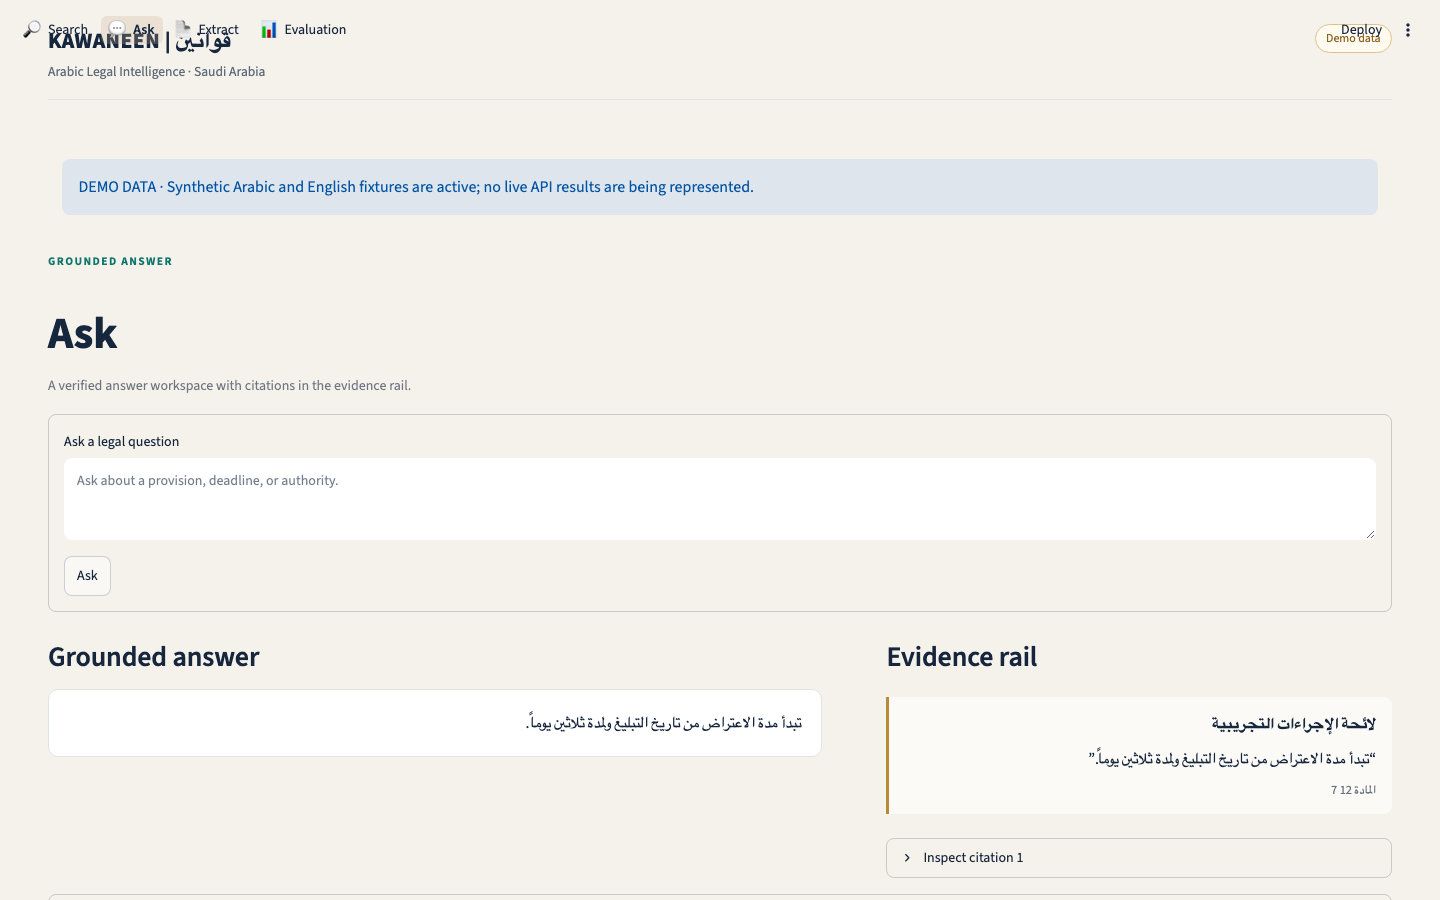
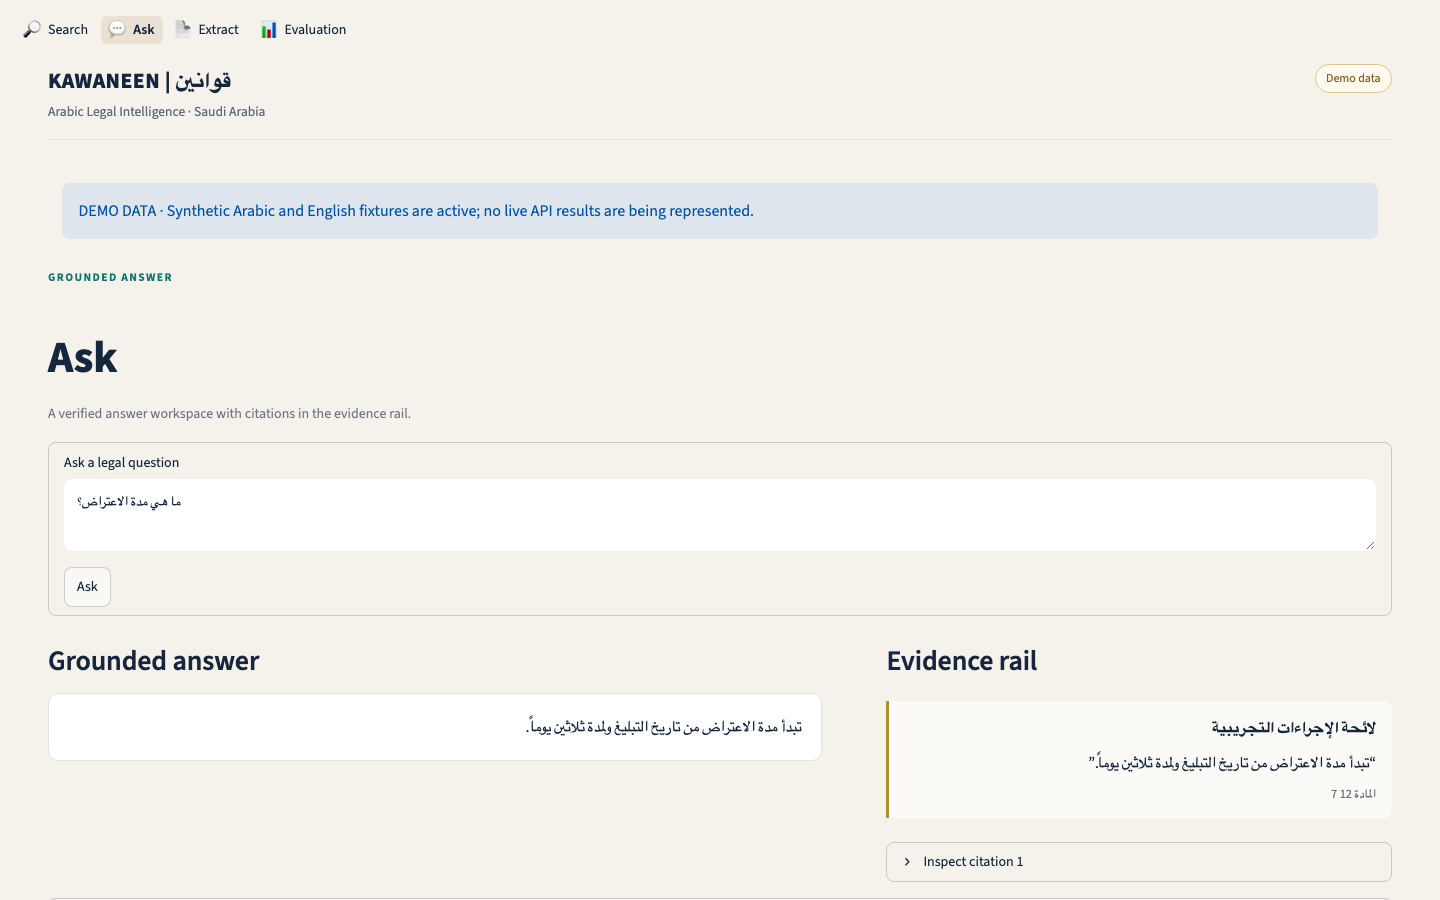
polish phase13 visual presentation

diff --git a/src/kawaneen/ui/pages/evaluation.py b/src/kawaneen/ui/pages/evaluation.py
@@ -13,6 +13,7 @@ from kawaneen.ui.components import (
     render_product_header,
     render_status_gate,
 )
+from kawaneen.ui.config import UiMode
 from kawaneen.ui.evaluation import (
     aggregate_latency_by_operation,
     build_evaluation_snapshot,
@@ -30,7 +31,14 @@ def render() -> None:
     render_page_intro(
         "Evidence and readiness",
         "Evaluation",
-        "Tracked metrics, live readiness, and session observations in one transparent view.",
+        (
+            "Tracked metrics, synthetic capability fixtures, and session observations in one "
+            "transparent view."
+            if state.active_mode is UiMode.DEMO
+            else (
+                "Tracked metrics, live readiness, and session observations in one transparent view."
+            )
+        ),
     )
     root = Path(__file__).resolve().parents[4]
     snapshot = build_evaluation_snapshot(root)
@@ -41,29 +49,10 @@ def render() -> None:
     glance[2].metric("Generation", "Phase 10 tracked")
     glance[3].metric("Extraction", "Protected")
     st.caption("A compact portfolio summary; detailed tracked metrics and provenance follow below.")
-    st.markdown("### Live API readiness")
-    try:
-        models = client.models()
-        cols = st.columns(max(1, min(4, len(models.capabilities))))
-        for column, capability in zip(cols, models.capabilities, strict=False):
-            with column:
-                st.metric(capability.capability, "Ready" if capability.ready else "Not ready")
-                revision = (
-                    capability.revision[:12] if capability.revision else "revision not reported"
-                )
-                st.caption(
-                    f"{capability.provider} · {capability.model or 'model not reported'} · "
-                    f"rev {revision} · {'ready' if capability.ready else 'not ready'}"
-                )
-    except Exception:
-        st.warning("Model readiness could not be loaded from the current API session.")
-    st.markdown("### Frozen retrieval architecture")
-    st.caption("BM25 + BGE-M3 → weighted RRF (1.0 / 0.25) → BGE reranker → top 8")
-    st.markdown("### Retrieval")
-    st.caption("Frozen Phase 8 architecture/configuration. DEV and holdout remain separate labels.")
     retrieval_rows = common_retrieval_comparison(snapshot)
-    st.dataframe(list(retrieval_rows), width="stretch", hide_index=True)
     if retrieval_rows:
+        st.markdown("### Tracked retrieval comparison")
+        st.caption("Common tracked metrics and splits only; values are not rerun in this UI.")
         chart_data: dict[str, list[float]] = {}
         for row in retrieval_rows:
             label = f"{row['split']} · {row['model']} · {row['metric']}"
@@ -71,6 +60,44 @@ def render() -> None:
             if isinstance(value, (int, float)):
                 chart_data[label] = [float(value)]
         st.bar_chart(chart_data, horizontal=True)
+    capability_heading = (
+        "Model capability snapshot" if state.active_mode is UiMode.DEMO else "Live API readiness"
+    )
+    st.markdown(f"### {capability_heading}")
+    try:
+        models = client.models()
+        cols = st.columns(max(1, min(4, len(models.capabilities))))
+        for column, capability in zip(cols, models.capabilities, strict=False):
+            with column:
+                status = (
+                    "Synthetic fixture"
+                    if state.active_mode is UiMode.DEMO
+                    else "Ready"
+                    if capability.ready
+                    else "Not ready"
+                )
+                st.metric(capability.capability, status)
+                revision = (
+                    capability.revision[:12] if capability.revision else "revision not reported"
+                )
+                caption_status = (
+                    "synthetic fixture"
+                    if state.active_mode is UiMode.DEMO
+                    else "ready"
+                    if capability.ready
+                    else "not ready"
+                )
+                st.caption(
+                    f"{capability.provider} · {capability.model or 'model not reported'} · "
+                    f"rev {revision} · {caption_status}"
+                )
+    except Exception:
+        st.warning("Model readiness could not be loaded from the current API session.")
+    st.markdown("### Frozen retrieval architecture")
+    st.caption("BM25 + BGE-M3 → weighted RRF (1.0 / 0.25) → BGE reranker → top 8")
+    st.markdown("### Retrieval")
+    st.caption("Frozen Phase 8 architecture/configuration. DEV and holdout remain separate labels.")
+    st.dataframe(list(retrieval_rows), width="stretch", hide_index=True)
     st.markdown("### Phase 8 selected improvement deltas")
     st.dataframe(snapshot.retrieval["selected_deltas"], width="stretch", hide_index=True)
     st.markdown("### Generation · DEV / independently AI-reviewed, not human-gold")

diff --git a/src/kawaneen/ui/pages/search.py b/src/kawaneen/ui/pages/search.py
@@ -62,20 +62,21 @@ def render() -> None:
         f"{response.retrieval.returned_count} results · {response.latency_ms:.0f} ms API latency · "
         "scope: jurisdiction SA"
     )
-    refinement = st.text_input(
-        "Refine returned evidence",
-        placeholder="Filter only the returned evidence",
-        key="search_refinement",
-    )
-    document_options = {
-        f"{item.document_title or item.document_id} · {item.document_id}": item.document_id
-        for item in response.results
-    }
-    selected_documents = st.multiselect(
-        "Filter returned documents",
-        options=list(document_options),
-        help="Client-side filter derived only from this response; API ranking is preserved.",
-    )
+    with st.expander("Refine returned evidence", expanded=False):
+        refinement = st.text_input(
+            "Text refinement",
+            placeholder="Filter only the returned evidence",
+            key="search_refinement",
+        )
+        document_options = {
+            f"{item.document_title or item.document_id} · {item.document_id}": item.document_id
+            for item in response.results
+        }
+        selected_documents = st.multiselect(
+            "Filter returned documents",
+            options=list(document_options),
+            help="Client-side filter derived only from this response; API ranking is preserved.",
+        )
     results = filter_returned_evidence(
         response.results,
         {document_options[label] for label in (selected_documents or [])},

diff --git a/src/kawaneen/ui/state.py b/src/kawaneen/ui/state.py
@@ -97,14 +97,20 @@ def seed_visual_qa_state(client: UiClient, state: UiSessionState) -> None:
 
     synthetic = DemoClient()
     if scenario == "search_arabic":
-        st.session_state["search_response"] = synthetic.search("ما هي مدة الاعتراض؟")
-        st.session_state["search_query_value"] = "ما هي مدة الاعتراض؟"
+        query = "ما هي مدة الاعتراض؟"
+        st.session_state["search_response"] = synthetic.search(query)
+        st.session_state["search_query"] = query
+        st.session_state["search_query_value"] = query
     elif scenario == "ask_grounded":
-        st.session_state["answer_response"] = synthetic.answer("ما هي مدة الاعتراض؟")
+        question = "ما هي مدة الاعتراض؟"
+        st.session_state["ask_question"] = question
+        st.session_state["answer_response"] = synthetic.answer(question)
     else:
         source_text = (
             "يلتزم الطرف بالسداد خلال ثلاثين يوماً.\n\nيجوز تمديد المدة في الحالات المحددة نظاماً."
         )
+        st.session_state["source_text"] = source_text
+        st.session_state["extraction_mode_select"] = "Deterministic"
         st.session_state["extraction_results"] = [
             ("segment-001", synthetic.extract(source_text, "deterministic"))
         ]

diff --git a/src/kawaneen/ui/styles.py b/src/kawaneen/ui/styles.py
@@ -13,6 +13,9 @@ def inject_css() -> None:
         .stApp { background: var(--canvas); color: var(--navy); }
         .block-container { max-width: 1440px; padding: 1.5rem 3rem 4rem; }
         [data-testid="stHeader"] { background: transparent; }
+        .kw-product-header { padding-top:2.5rem; margin-bottom:.8rem !important; }
+        .block-container h1 { margin-top:.5rem !important; margin-bottom:.25rem !important; }
+        [data-testid="stForm"] { padding-top:.5rem !important; padding-bottom:.5rem !important; }
         [data-testid="stMetric"] { background:#fff; border:1px solid var(--line);
           border-radius:10px; padding:.8rem 1rem; }
         .kw-surface { background:#fff; border:1px solid var(--line);
@@ -27,7 +30,7 @@ def inject_css() -> None:
         .kw-status.degraded { color:#9a5d13; border-color:#e4bf87; background:#fff7e8; }
         .kw-quote { border-left:3px solid var(--gold); background:#fcfaf6;
           border-radius:0 8px 8px 0; padding:.8rem 1rem; line-height:1.8; }
-        [data-testid="stAlert"] { margin:.65rem 0; padding:.65rem .9rem; }
+        [data-testid="stAlert"] { margin:.4rem 0; padding:.45rem .9rem; }
         .kw-rtl { direction:rtl; text-align:right; }
         .kw-ltr { direction:ltr; text-align:left; }
         .kw-meta { color:#65727c; font-size:.78rem; }

diff --git a/tests/test_ui_state.py b/tests/test_ui_state.py
@@ -121,6 +121,7 @@ def test_visual_qa_state_seeds_only_synthetic_demo_search(monkeypatch) -> None:
 
     response = fake.session_state["search_response"]
     assert response.results[0].document_id == "demo-procedure"
+    assert fake.session_state["search_query"] == "ما هي مدة الاعتراض؟"
     assert fake.session_state["search_query_value"] == "ما هي مدة الاعتراض؟"
     assert fake.session_state["_visual_qa_scenario"] == "search_arabic"
 
@@ -154,9 +155,12 @@ def test_visual_qa_state_reuses_synthetic_ask_and_extract_fixtures(monkeypatch) 
         assert fake.session_state["_visual_qa_scenario"] == scenario
         if scenario == "ask_grounded":
             assert fake.session_state["answer_response"].request_id == "demo-answer-grounded"
+            assert fake.session_state["ask_question"] == "ما هي مدة الاعتراض؟"
         else:
             results = fake.session_state["extraction_results"]
             assert results[0][1].result.source_provenance.source_id == "synthetic-demo"
+            assert "يلتزم الطرف بالسداد" in fake.session_state["source_text"]
+            assert fake.session_state["extraction_mode_select"] == "Deterministic"
 
 
 def test_visual_qa_state_accepts_explicit_demo_environment_switch(monkeypatch) -> None:

diff --git a/src/kawaneen/ui/pages/extract.py b/src/kawaneen/ui/pages/extract.py
@@ -35,7 +35,7 @@ def render() -> None:
         source_text = st.text_area(
             "Source text",
             placeholder="Paste a provision or clause here.",
-            height=140,
+            height=100,
             key="source_text",
         )
     elif source_mode == "Upload document":
@@ -86,7 +86,9 @@ def render() -> None:
             source_text = st.session_state.get("corpus_source_text", source_text)
         except UiApiError as error:
             st.error(error.message)
-    mode_label = st.selectbox("Extraction mode", ["Deterministic", "Hybrid"])
+    mode_label = st.selectbox(
+        "Extraction mode", ["Deterministic", "Hybrid"], key="extraction_mode_select"
+    )
     mode = "hybrid" if mode_label == "Hybrid" else "deterministic"
     if st.button("Extract"):
         if not source_text.strip():

diff --git a/tests/test_ui_app.py b/tests/test_ui_app.py
@@ -110,7 +110,9 @@ def test_demo_evaluation_page_shows_provenance_and_latency_label(monkeypatch) ->
     app = _run()
     app.switch_page("pages/evaluation.py").run()
 
-    assert any("Live API readiness" in item.value for item in app.markdown)
+    assert any("Model capability snapshot" in item.value for item in app.markdown)
+    assert not any("Live API readiness" in item.value for item in app.markdown)
+    assert not any("live readiness" in item.value for item in app.caption)
     assert any("Live session latency — not a benchmark" in item.value for item in app.markdown)
     assert any("Technical provenance" in item.label for item in app.expander)
     assert any("BM25 + BGE-M3" in item.value for item in app.caption)

diff --git a/src/kawaneen/ui/components.py b/src/kawaneen/ui/components.py
@@ -25,7 +25,7 @@ def render_product_header(state: UiSessionState) -> None:
     )
     st.html(
         f"""
-        <div
+        <div class="kw-product-header"
           style="display:flex;justify-content:space-between;align-items:flex-start;
           border-bottom:1px solid #dfe5e3;padding-bottom:1rem;margin-bottom:1.4rem"
         >

diff --git a/src/kawaneen/ui/pages/ask.py b/src/kawaneen/ui/pages/ask.py
@@ -33,7 +33,7 @@ def render() -> None:
         query = st.text_area(
             "Ask a legal question",
             placeholder="Ask about a provision, deadline, or authority.",
-            height=110,
+            height=100,
             key="ask_question",
         )
         submitted = st.form_submit_button("Ask")

diff --git a/README.md b/README.md
@@ -23,7 +23,7 @@ Phase 13 adds a recruiter-facing Streamlit workspace over the Phase 12 HTTP API.
 - Search: ranked Saudi evidence, literal query highlighting, metadata, and returned-evidence refinement.
 - Ask: grounded answers with a prominent citation rail, exact quotes, canonical-unit inspection, and intentional abstention states.
 - Extract: paste, upload, or paginated corpus sources with bounded segmentation, visible hybrid limitations, and JSON/CSV exports.
-- Evaluation: live readiness, provenance-hashed tracked metrics, and current-session latency labelled as non-benchmark.
+- Evaluation: model capability snapshots, provenance-hashed tracked metrics, and current-session latency labelled as non-benchmark.
 
 Run the live API and UI as two processes:
 
